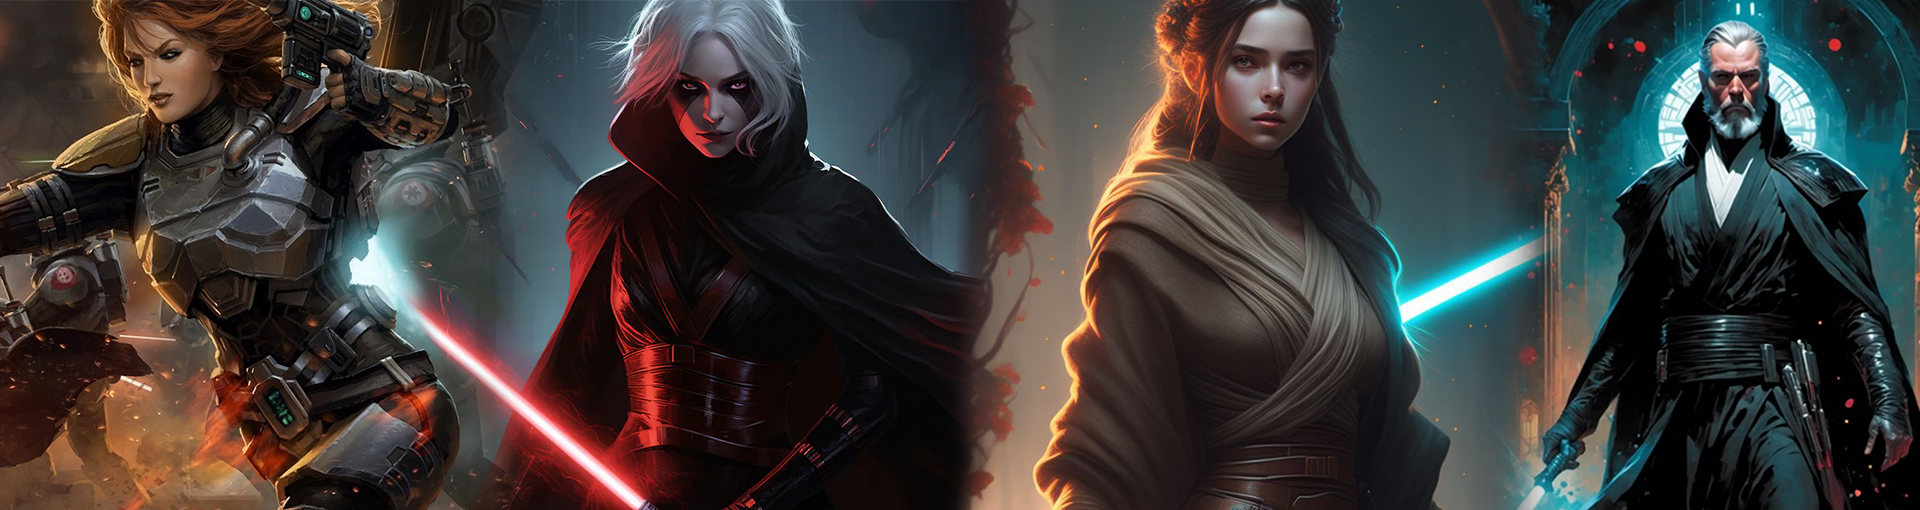
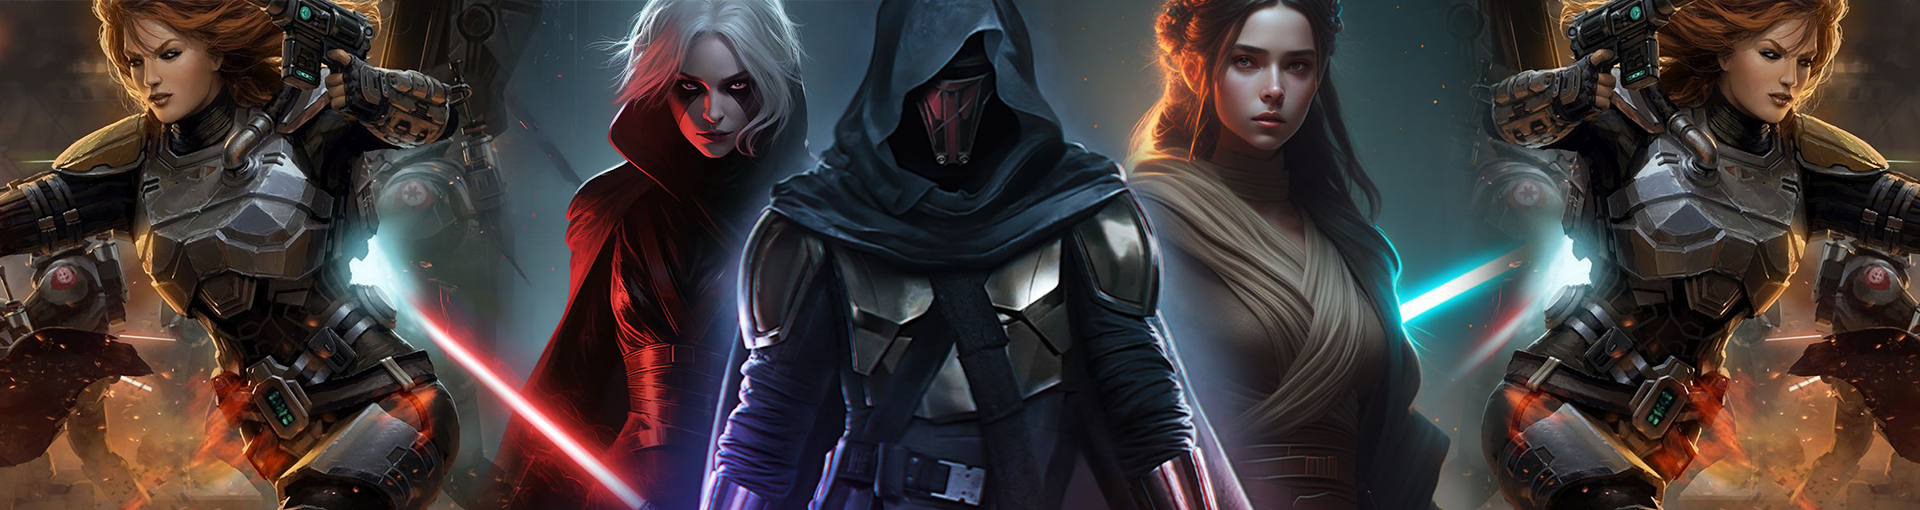
Integration html quiz progressBar Levels

diff --git a/src/components/Welcome/index.jsx b/src/components/Welcome/index.jsx
@@ -1,24 +1,46 @@
 import React, { useState, Fragment, useContext, useEffect } from "react";
 import { FirebaseContext } from "../Firebase";
 import { useNavigate } from "react-router-dom";
+import { getDoc } from "firebase/firestore";
 import Logout from "../Logout/index";
+import Quiz from "../Quiz/index";
 
 const Welcome = () => {
   const firebase = useContext(FirebaseContext);
   const navigate = useNavigate();
   const [userSession, setUserSession] = useState(null);
+  const [userData, setUserData] = useState({});
 
   //detection de la session
   useEffect(() => {
-    let listener = firebase.auth.onAuthStateChanged((user) => {
-      user ? setUserSession(user) : navigate("/");
+    const listener = firebase.auth.onAuthStateChanged((user) => {
+      if (user) {
+        setUserSession(user);
+      } else {
+        setUserSession(null);
+        navigate("/");
+      }
     });
 
-    //componentWillUnmount
+    if (userSession) {
+      (async () => {
+        try {
+          const userDocRef = firebase.user(userSession.uid);
+          const userDoc = await getDoc(userDocRef);
+          if (userDoc.exists()) {
+            setUserData(userDoc.data());
+          }
+        } catch (error) {
+          console.error("Error fetching user data: ", error);
+        }
+      })();
+    }
+
+    //componentWillUnmount (cleanup auth)
     return () => {
       listener();
     };
-  });
+  }, [userSession]);
 
   const display =
     userSession === null ? (
@@ -30,8 +52,8 @@ const Welcome = () => {
       <Fragment>
         <div className="quiz-bg">
           <div className="container">
-            Welcomeeze
             <Logout />
+            <Quiz userData={userData} />
           </div>
         </div>
       </Fragment>

diff --git a/src/components/Quiz/index.jsx b/src/components/Quiz/index.jsx
@@ -1,0 +1,25 @@
+import React from "react";
+import Levels from "../Levels";
+import ProgressBar from "../ProgressBar";
+
+const Quiz = (props) => {
+  //destructuring
+  const { email, pseudo } = props.userData;
+  return (
+    <div>
+      Pseudo : {pseudo}
+      <br />
+      Email : {email}
+      <Levels />
+      <ProgressBar />
+      <h2>Quiz question</h2>
+      <p className="answerOptions">Question 1</p>
+      <p className="answerOptions">Question 2</p>
+      <p className="answerOptions">Question 3</p>
+      <p className="answerOptions">Question 4</p>
+      <button className="btnSubmit">Submit</button>
+    </div>
+  );
+};
+
+export default Quiz;

diff --git a/src/components/ProgressBar/index.jsx b/src/components/ProgressBar/index.jsx
@@ -1,0 +1,17 @@
+import React, { Fragment } from "react";
+
+const ProgressBar = () => {
+  return (
+    <Fragment>
+      <div className="percentage">
+        <div className="progressPercent">Question 1/1</div>
+        <div className="progressPercent">Progression: 10%</div>
+      </div>
+      <div className="progressBar">
+        <div style={{ width: "10%" }} className="progressBarChange"></div>
+      </div>
+    </Fragment>
+  );
+};
+
+export default ProgressBar;

diff --git a/src/components/Levels/index.jsx b/src/components/Levels/index.jsx
@@ -1,0 +1,11 @@
+import React from "react";
+
+const Levels = () => {
+  return (
+    <div className="levelsContainer">
+      <h2 className="headingLevels">Débutant</h2>
+    </div>
+  );
+};
+
+export default Levels;

diff --git a/src/components/Home/index.jsx b/src/components/Home/index.jsx
@@ -11,7 +11,7 @@ const Landing = () => {
     setTimeout(() => {
       refWolverine.current.classList.remove("startingImg");
       setBtn(true);
-    }, 1000);
+    }, 500);
   }, []);
 
   const setLeftImg = () => {

diff --git a/src/App.css b/src/App.css
@@ -99,7 +99,7 @@ main {
 }
 
 .startingImg {
-  background-image: url(images/xmen.png);
+  background-image: url(images/sw4.png);
 }
 
 .leftImg {
